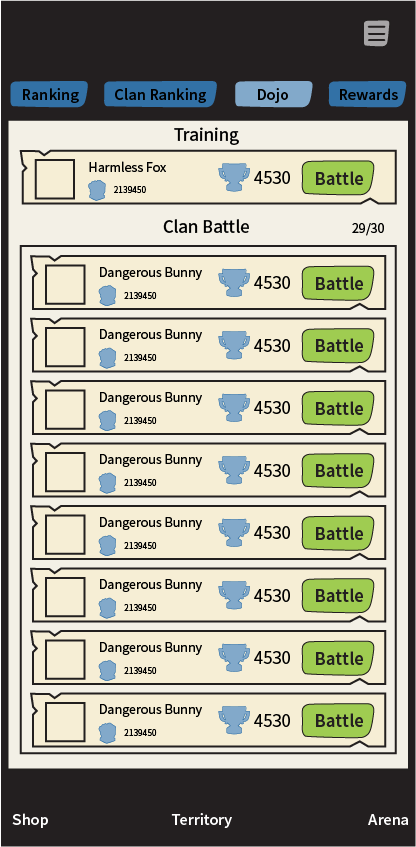
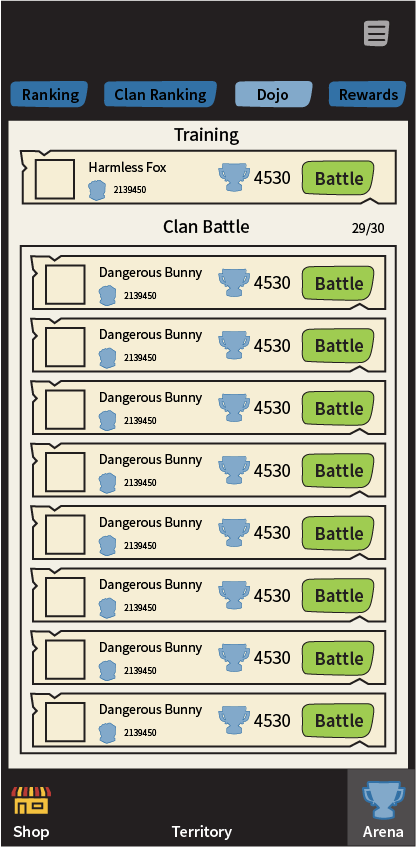
arena rewards

Changed region(s): [[0.0, 0.0921, 1.0, 1.0], [0.875, 0.0307, 0.9375, 0.0614], [0.0312, 0.1842, 0.0625, 0.2149]]

diff --git a/suggestions-load-reduction.md b/suggestions-load-reduction.md
@@ -32,10 +32,23 @@ Ideas on game improvement from players of Art of War:Legion.
 > 1. All daily rewards are sent to Inbox
 > 2. We can receive messages from Clan General in Inbox
 > 3. We can receive a message from Clan General if we are kicked out of a clan
-![Image](../images/ui-command-center-inbox.png)
+
+![Image](images/ui-command-center-inbox.png)
 
 [Suggestion by The Haunter](https://discord.com/channels/658594298983350293/659077000027308104/932187057181294632)
 > have all the reward claims on one page instead of running around searching for claims
+
+----
+
+## Make it easier to claim arena rewards
+
+[Suggestion by Kitsune]()
+> Make it easy to claim [arena](structure/arena) rewards by reusing the "purchase" button:
+> 1. Green "$9.99": No rewards needs claiming. Battle Pass not purchased
+> 2. Yellow "claim all": Some rewards needs claiming.
+> 3. Disabled "claim all": No rewards needs claiming. Battle Pass already purchased
+
+![Image](images/ui-arena-rewards-3.png)
 
 ----
 

diff --git a/structure/arena.md b/structure/arena.md
@@ -23,4 +23,4 @@
 
 | Rankings | Guild Rankings | Dojo | Rewards    |
 | ------- | ------- | -------- |-------------- |
-|![Example](../images/ui-arena-ranks.png)|![Example](../images/ui-arena-guilds.png)|![Example](../images/ui-arena-dojo.png)| |
+|![Example](../images/ui-arena-ranks.png)|![Example](../images/ui-arena-guilds.png)|![Example](../images/ui-arena-dojo.png)|![Image](../images/ui-arena-rewards.png)|

diff --git a/suggestions-ui.md b/suggestions-ui.md
@@ -62,6 +62,6 @@ of feature development.
 
 ----
 
-## Reduce animation time
+## Reduce Temple of Fusion animation
 [Suggestion by kuroneko](https://discord.com/channels/658594298983350293/659077000027308104/932097182708924466)
 > Give me an option to cut the lengthy animation effects when fusing soldiers.
